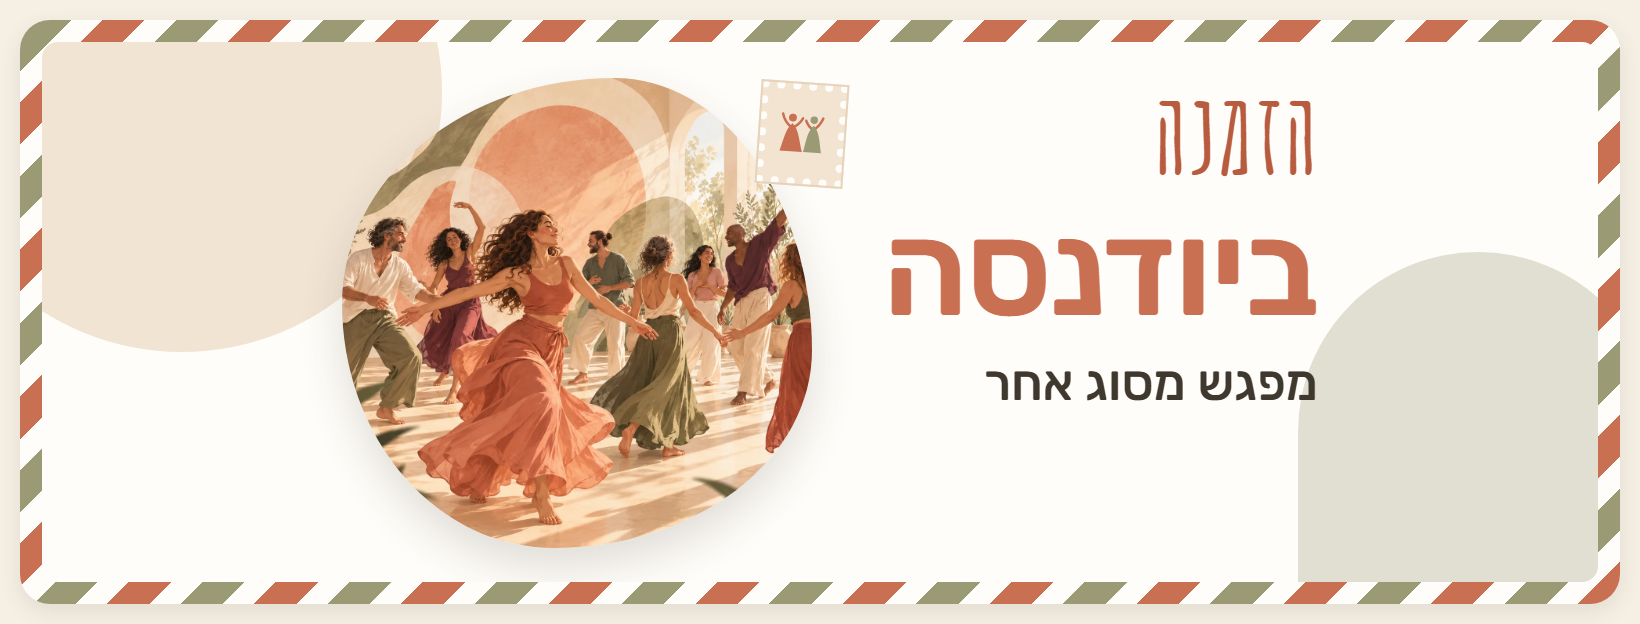
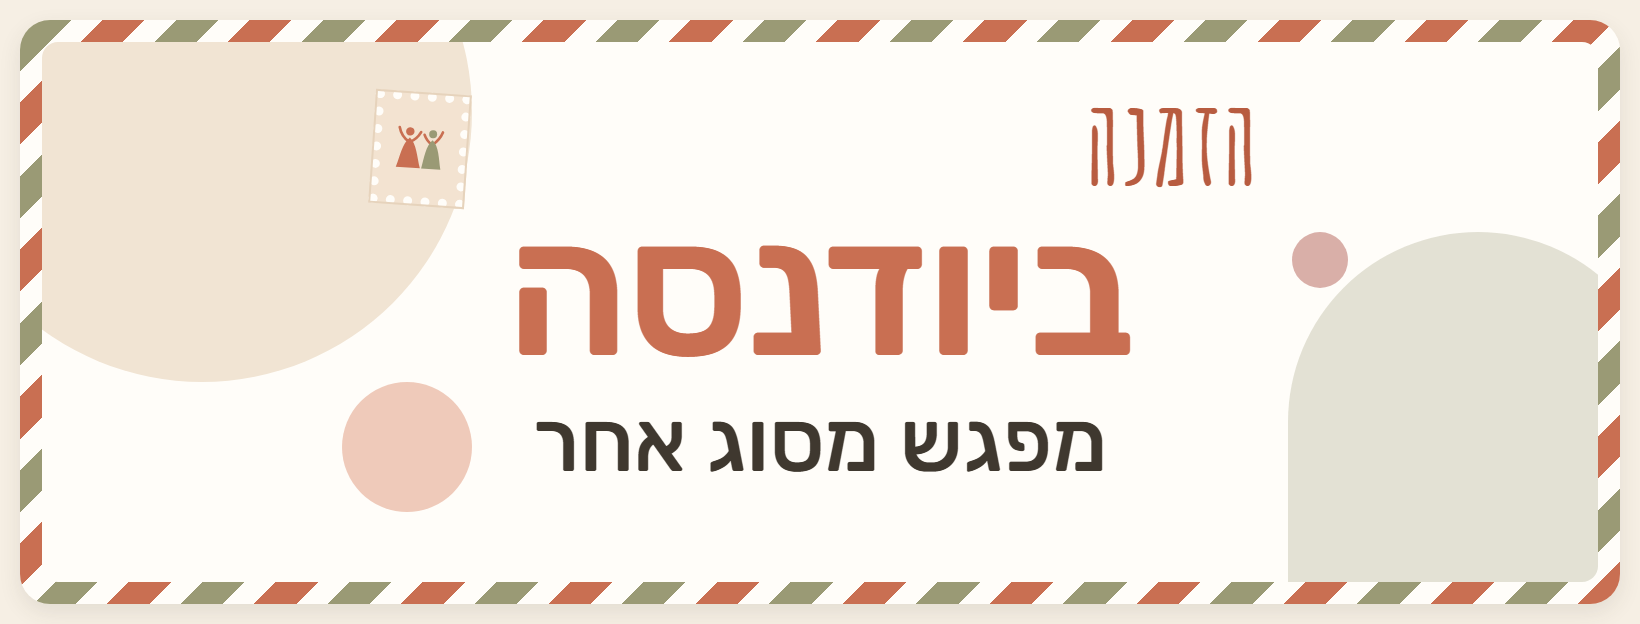
ads/social: קאבר בלי תמונה — ביודנסה / מפגש מסוג אחר על רקע שפת ההזמנה

Changed region(s): [[0.0311, 0.0609, 0.9951, 0.9439], [0.653, 0.1522, 0.8085, 0.3045]]

diff --git a/ads/tools/build_social.py b/ads/tools/build_social.py
@@ -24,33 +24,28 @@ img{{position:absolute;inset:0;width:100%;height:100%;object-fit:cover;object-po
 </body></html>'''
 
 COVER_T = f'''<!doctype html><html lang="he" dir="rtl"><meta charset="utf-8">
-<link href="https://fonts.googleapis.com/css2?family=Rubik:wght@500;600;700&family=Assistant:wght@600;700&family=Amatic+SC:wght@700&display=swap" rel="stylesheet">
+<link href="https://fonts.googleapis.com/css2?family=Rubik:wght@500;600;700&family=Amatic+SC:wght@700&display=swap" rel="stylesheet">
 <style>
 *{{margin:0;box-sizing:border-box}}html,body{{width:1640px;height:624px;overflow:hidden}}
 body{{background:#F6EFE4;position:relative;font-family:Rubik,sans-serif;color:#3F382F}}
-/* מעטפת דואר: מסגרת פסים סביב כל הקאבר */
+/* מעטפת דואר: מסגרת פסים סביב כל הקאבר, בלי תמונה */
 .frame{{position:absolute;inset:20px;border-radius:30px;padding:22px;background:repeating-linear-gradient(-45deg,#C96F52 0 30px,#FFFDF9 30px 52px,#9A9A75 52px 82px,#FFFDF9 82px 104px);box-shadow:0 8px 22px rgba(63,56,47,.10)}}
 .paper{{position:relative;width:100%;height:100%;border-radius:16px;background:#FFFDF9;overflow:hidden}}
-.c1{{position:absolute;left:-120px;top:-210px;width:520px;height:520px;border-radius:50%;background:#F1E4D3}}
-.c2{{position:absolute;right:-60px;bottom:-110px;width:360px;height:440px;border-radius:180px 180px 0 0;background:rgba(154,154,117,.30)}}
-.photo{{position:absolute;left:300px;top:36px;width:470px;height:470px;border-radius:58% 42% 55% 45% / 48% 58% 42% 52%;overflow:hidden;box-shadow:0 20px 44px rgba(63,56,47,.16)}}
-.photo img{{width:100%;height:100%;object-fit:cover}}
-.txt{{position:absolute;right:280px;top:34px;width:560px;text-align:right}}
-.row{{display:flex;align-items:flex-start;justify-content:space-between}}
-.hand{{font-family:"Amatic SC";font-weight:700;font-size:112px;line-height:1;color:#B85C40}}
-.stamp{{width:88px;height:104px;background:#F3E3D1;border:8px dotted #FFFDF9;outline:2px solid #E6D3BC;outline-offset:-2px;transform:rotate(4deg);padding:9px;margin-top:6px}}
-h1{{margin-top:14px;font-size:132px;line-height:1.04;font-weight:600;letter-spacing:-.01em}}
-h1 em{{font-style:normal;color:#C96F52}}
-.sub{{margin-top:14px;font-family:Rubik;font-weight:500;font-size:50px;line-height:1.2;color:#3F382F}}
+.c1{{position:absolute;left:-110px;top:-200px;width:540px;height:540px;border-radius:50%;background:#F1E4D3}}
+.c2{{position:absolute;right:-70px;bottom:-110px;width:380px;height:460px;border-radius:190px 190px 0 0;background:rgba(154,154,117,.28)}}
+.c3{{position:absolute;left:300px;bottom:70px;width:130px;height:130px;border-radius:50%;background:#E9B8A4;opacity:.75}}
+.c4{{position:absolute;right:250px;top:190px;width:56px;height:56px;border-radius:50%;background:#C98D86;opacity:.7}}
+.stamp{{position:absolute;left:330px;top:50px;width:96px;height:114px;background:#F3E3D1;border:9px dotted #FFFDF9;outline:2px solid #E6D3BC;outline-offset:-2px;transform:rotate(4deg);padding:10px}}
+.hand{{position:absolute;right:340px;top:40px;font-family:"Amatic SC";font-weight:700;font-size:118px;line-height:1;color:#B85C40}}
+.txt{{position:absolute;left:0;right:0;top:0;bottom:0;display:flex;flex-direction:column;align-items:center;justify-content:center;text-align:center;padding-top:62px}}
+h1{{font-size:190px;line-height:.98;font-weight:600;letter-spacing:-.01em;color:#C96F52}}
+.sub{{margin-top:12px;font-size:86px;line-height:1.1;font-weight:500;color:#3F382F}}
 </style><body>
 <div class="frame"><div class="paper">
-<div class="c1"></div><div class="c2"></div>
-<div class="photo"><img src="{IMG}/biodanza-hero.webp"></div>
-<div class="txt">
- <div class="row"><div class="hand">הזמנה</div><div class="stamp">{DANCERS("#C96F52","#9A9A75")}</div></div>
- <h1><em>ביודנסה</em></h1>
- <div class="sub">@@SUB@@</div>
-</div></div></div></body></html>'''
+<div class="c1"></div><div class="c2"></div><div class="c3"></div><div class="c4"></div>
+<div class="stamp">{DANCERS("#C96F52","#9A9A75")}</div><div class="hand">הזמנה</div>
+<div class="txt"><h1>ביודנסה</h1><div class="sub">@@SUB@@</div></div>
+</div></div></body></html>'''
 
 def cover(sub):
     return COVER_T.replace("@@SUB@@", sub)
